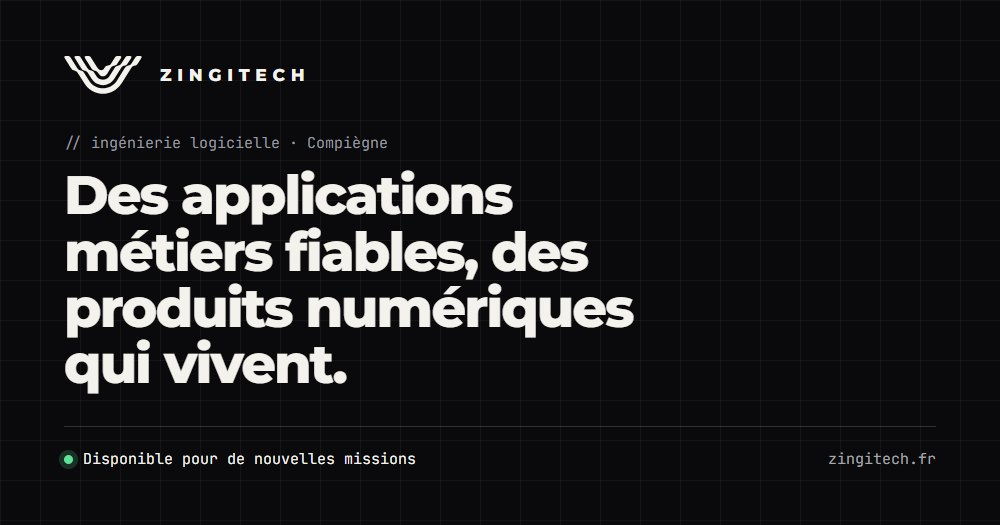
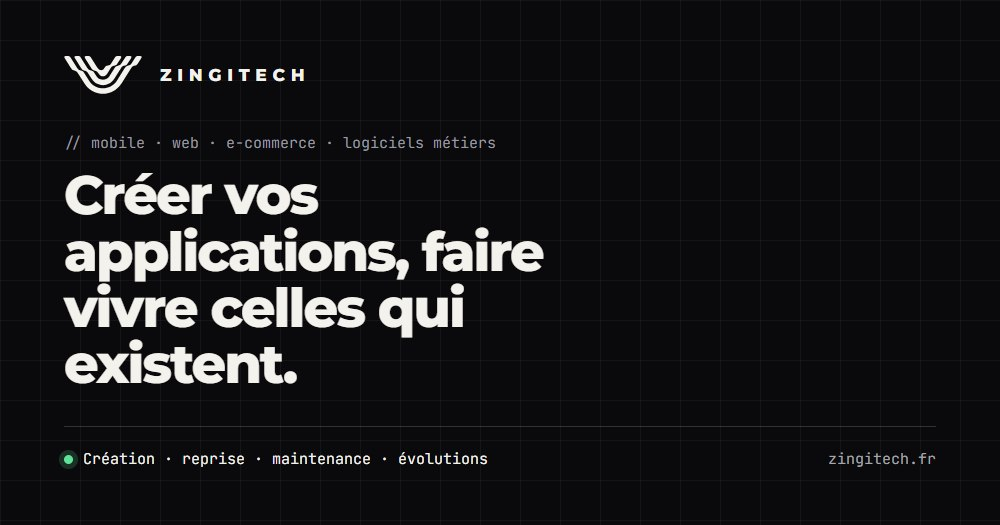
Repositionne l'accueil sur l'offre et retire le côté CV
- Accueil : nouvelle promesse « Créer vos applications, faire vivre
  celles qui existent », boutons orientés offres, raccourcis par besoin,
  programme animé sans notion de disponibilité.
- Métadonnées, description et image de partage mises à jour.
- Mentions de disponibilité reformulées (barre d'état, menu, contact,
  bandeau).
- Retrait de la carte Formation du parcours et des lignes Formation et
  Hors écran de la section À propos.
- À propos : l'introduction présente ZingiTech plutôt que son fondateur.

Changed region(s): [[0.062, 0.3048, 0.651, 0.7619], [0.093, 0.2438, 0.496, 0.3048], [0.093, 0.8533, 0.496, 0.8838]]

diff --git a/index.html b/index.html
@@ -3,12 +3,12 @@
 <head>
 <meta charset="utf-8">
 <meta name="viewport" content="width=device-width, initial-scale=1">
-<title>ZingiTech · Ingénierie logicielle, applications métiers et mobiles</title>
-<meta name="description" content="Ingénierie logicielle à Compiègne : applications métiers WinDev et HFSQL, applications mobiles React Native et IA. Disponible pour de nouvelles missions.">
+<title>ZingiTech · Création, reprise et maintenance d'applications</title>
+<meta name="description" content="ZingiTech crée, reprend, fait évoluer et maintient vos applications : mobile, web, e-commerce et logiciels métiers. Au forfait ou au temps passé, depuis Compiègne.">
 <link rel="canonical" href="https://zingitech.fr/">
 <meta property="og:type" content="website">
-<meta property="og:title" content="ZingiTech · Des applications métiers fiables, des produits numériques qui vivent.">
-<meta property="og:description" content="Ingénierie logicielle, applications métiers WinDev, applications mobiles React Native et IA. Disponible pour de nouvelles missions en régie ou en portage.">
+<meta property="og:title" content="ZingiTech · Créer vos applications, faire vivre celles qui existent.">
+<meta property="og:description" content="Application mobile, boutique en ligne, outil sur mesure ou logiciel métier : ZingiTech le crée, le reprend, le fait évoluer et le maintient.">
 <meta property="og:locale" content="fr_FR">
 <meta property="og:url" content="https://zingitech.fr/">
 <meta property="og:image" content="https://zingitech.fr/assets/og.jpg">
@@ -22,7 +22,7 @@
 <link rel="preload" href="assets/fonts/inter.woff2" as="font" type="font/woff2" crossorigin>
 <link rel="preload" href="assets/fonts/jetbrains-mono.woff2" as="font" type="font/woff2" crossorigin>
 <script type="application/ld+json">
-{"@context":"https://schema.org","@type":"ProfessionalService","name":"ZingiTech","url":"https://zingitech.fr/","image":"https://zingitech.fr/assets/og.jpg","description":"Ingénierie logicielle : applications métiers WinDev et bases de données, applications mobiles React Native et IA, sites e-commerce, data et automatisation.","email":"contact@zingitech.fr","address":{"@type":"PostalAddress","addressLocality":"Compiègne","addressRegion":"Hauts-de-France","addressCountry":"FR"},"founder":{"@type":"Person","name":"Brandon Z."},"foundingDate":"2026-03","areaServed":"FR"}
+{"@context":"https://schema.org","@type":"ProfessionalService","name":"ZingiTech","url":"https://zingitech.fr/","image":"https://zingitech.fr/assets/og.jpg","description":"Création, reprise, évolution et maintenance d'applications : mobile, web, e-commerce, logiciels métiers, data et automatisation.","email":"contact@zingitech.fr","address":{"@type":"PostalAddress","addressLocality":"Compiègne","addressRegion":"Hauts-de-France","addressCountry":"FR"},"founder":{"@type":"Person","name":"Brandon Z."},"foundingDate":"2026-03","areaServed":"FR"}
 </script>
 <style>
 @font-face{font-family:'Montserrat';font-style:normal;font-weight:600 800;font-display:swap;src:url(assets/fonts/montserrat.woff2) format('woff2')}
@@ -140,9 +140,14 @@ html.js .hero h1 .ln:nth-child(2)>span{transition-delay:.12s}
 html.js .hero.in h1 .ln>span{transform:none}
 .hero .lead{font-size:clamp(16px,1.25vw,18.5px);color:#c9c9cf;max-width:50ch;line-height:1.6;margin-top:26px}
 .cta-row{display:flex;flex-wrap:wrap;gap:12px;margin-top:32px}
-html.js .hero .lead,html.js .hero .cta-row{opacity:0;transform:translateY(16px);transition:opacity .9s var(--ease) .35s,transform .9s var(--ease) .35s}
+.hero-paths{display:flex;flex-wrap:wrap;align-items:center;gap:8px;margin-top:26px;max-width:62ch}
+.hero-paths .hp-lbl{font:500 12px var(--mono);color:var(--vert);margin-right:4px}
+.hero-paths a{font:500 12px var(--mono);color:#c9c9cf;padding:7px 12px;border:1px solid var(--ligne-n);border-radius:999px;transition:color .3s,border-color .3s,background .3s}
+.hero-paths a:hover{color:var(--blanc);border-color:rgba(255,255,255,.5);background:rgba(255,255,255,.05)}
+html.js .hero .lead,html.js .hero .cta-row,html.js .hero .hero-paths{opacity:0;transform:translateY(16px);transition:opacity .9s var(--ease) .35s,transform .9s var(--ease) .35s}
 html.js .hero .cta-row{transition-delay:.5s}
-html.js .hero.in .lead,html.js .hero.in .cta-row{opacity:1;transform:none}
+.hero .hero-paths{transition-delay:.65s}
+html.js .hero.in .lead,html.js .hero.in .cta-row,html.js .hero.in .hero-paths{opacity:1;transform:none}
 .hero-fx{position:absolute;inset:0;z-index:3;pointer-events:none;display:block}
 html:not(.js) .hero-fx,html.noanim .hero-fx{display:none}
 .hero-ed{perspective:1400px;min-width:0}
@@ -218,7 +223,7 @@ html.js .in .sw .w>span{transform:none}
 html.js .rv:not(.in){opacity:0;transform:translateY(26px)}
 html.js .rv{transition:opacity .9s var(--ease),transform .9s var(--ease)}
 html.js .rv.in{opacity:1;transform:none}
-html.noanim .rv,html.noanim .sw .w>span,html.noanim .hero h1 .ln>span,html.noanim .hero .lead,html.noanim .hero .cta-row,html.noanim .win{opacity:1!important;transform:none!important}
+html.noanim .rv,html.noanim .sw .w>span,html.noanim .hero h1 .ln>span,html.noanim .hero .lead,html.noanim .hero .cta-row,html.noanim .hero .hero-paths,html.noanim .win{opacity:1!important;transform:none!important}
 html.lock{overflow:hidden}
 .skip{position:absolute;left:-999px;top:10px;z-index:60;background:var(--blanc);color:var(--encre);padding:10px 14px;border-radius:8px;font-weight:600}
 .skip:focus{left:10px}
@@ -370,9 +375,6 @@ html.pin .rail{width:max-content;overflow:visible;scroll-snap-type:none;padding-
 .rc li{padding-left:16px;position:relative}
 .rc li::before{content:"";position:absolute;left:0;top:.8em;width:7px;height:2px;background:var(--jaune)}
 .rc .tags{margin-top:auto;padding-top:8px}
-.rc-form .ligne{display:grid;grid-template-columns:92px 1fr;gap:12px;padding:14px 0;border-top:1px solid var(--ligne-n);font-size:14.5px;line-height:1.45;color:#d5d5da}
-.rc-form .ligne b{font:500 12px var(--mono);color:var(--jaune);padding-top:2px}
-.rc-form .ligne small{display:block;color:var(--gris-2);font-size:12.5px;margin-top:3px}
 .rc-meth .m{padding:13px 0;border-top:1px solid var(--ligne-n);display:grid;grid-template-columns:34px 1fr;gap:4px 10px}
 .rc-meth .m b{font:500 12px var(--mono);color:var(--jaune);grid-row:span 2;padding-top:3px}
 .rc-meth .m h4{font-family:var(--display);font-weight:700;font-size:16px;letter-spacing:-.015em}
@@ -575,10 +577,10 @@ html.noanim .rec .cb i{opacity:1!important;transform:none!important}
   <a href="#bac"><span>05</span>Bac à sable</a>
   <a href="#apropos"><span>06</span>À propos</a>
   <a href="#contact"><span>07</span>Contact</a>
-  <div class="menu-foot">Disponible pour de nouvelles missions · contact@zingitech.fr</div>
+  <div class="menu-foot">Création · reprise · maintenance · contact@zingitech.fr</div>
 </div>
 <div class="status" id="status" aria-hidden="true">
-  <span><i class="dot"></i>Disponible · régie, portage</span>
+  <span><i class="dot"></i>Création · reprise · maintenance</span>
   <span>§ <em id="st-sec">accueil</em></span>
   <span><em id="st-pct">0</em> %</span>
   <span id="st-clock">--:--</span>
@@ -592,12 +594,19 @@ html.noanim .rec .cb i{opacity:1!important;transform:none!important}
   <div class="wrap hero-grid">
     <div class="hero-txt">
       <svg class="hero-emb" viewBox="0 0 1000 484" aria-hidden="true" focusable="false"><path class="b1" d="M4 16L8 25L22 49L80 142L96 165L103 173L112 179L122 184L142 190L152 194L161 200L169 208L179 221L265 356L281 379L300 400L325 422L352 442L376 455L396 464L427 474L454 480L470 483L505 484L528 483L545 480L571 474L592 468L603 464L623 455L646 442L665 429L690 408L710 388L724 370L737 352L854 166L869 143L877 135L886 130L896 126L917 121L927 117L936 110L943 102L949 93L982 42L993 23L995 18L996 13L995 9L994 6L991 4L987 2L976 0L953 0L941 1L931 4L922 10L912 23L861 101L854 110L846 116L836 120L814 126L804 130L795 136L788 143L775 161L676 320L659 342L642 358L630 370L611 383L592 393L572 402L551 408L535 411L524 412L501 413L478 413L461 411L440 406L424 401L409 395L385 382L367 368L359 361L343 345L322 318L257 216L248 203L240 195L230 190L225 188L204 183L194 179L185 173L177 165L171 156L86 21L79 12L75 9L67 3L56 1L22 0L11 3L8 5L5 8L4 11Z"/><path class="b2" d="M134 13L135 18L137 23L142 32L163 65L200 125L228 167L235 175L244 181L254 185L270 189L280 193L289 198L298 205L305 214L311 223L352 288L369 311L384 327L397 339L411 348L420 354L435 360L456 367L472 371L483 373L500 374L517 373L528 371L549 366L564 360L579 353L593 345L607 334L615 327L630 310L647 287L726 162L738 143L746 135L754 130L764 126L786 122L796 118L804 111L811 103L818 94L856 34L862 24L865 15L865 11L864 7L861 5L857 2L847 0L813 1L802 3L794 8L790 12L783 21L739 90L725 108L717 115L707 120L681 127L671 131L662 137L655 145L584 257L578 266L566 278L553 289L539 296L523 301L512 302L501 303L483 302L467 299L457 295L443 287L430 276L419 264L386 213L376 200L367 193L362 191L352 187L336 184L326 180L321 177L313 170L299 153L214 18L208 10L199 4L189 1L178 0L154 0L143 2L139 4L136 6L135 9Z"/><path class="b3" d="M265 16L269 25L274 35L351 156L360 169L368 176L377 182L408 191L413 194L422 199L426 203L433 211L453 238L461 246L469 252L474 255L484 259L500 261L511 260L522 257L531 251L543 241L556 223L603 149L614 136L623 130L628 128L654 122L659 120L669 115L677 108L689 90L725 34L731 25L734 15L734 11L733 8L731 5L727 3L722 1L711 0L682 1L677 1L667 5L663 8L655 16L602 99L595 108L586 115L577 119L549 124L540 128L532 135L528 139L510 167L502 174L493 180L488 181L477 182L467 181L456 177L452 175L443 168L436 160L420 137L347 21L341 12L337 9L328 3L318 1L283 0L272 2L269 5L266 8L265 11Z"/></svg>
-      <h1><span class="ln"><span>Des applications métiers fiables,</span></span><span class="ln"><span><em>des produits numériques qui vivent.</em></span></span></h1>
-      <p class="lead">ZingiTech conçoit, fait évoluer et maintient les logiciels métiers critiques des entreprises, et développe des applications mobiles et web, de l'idée jusqu'à la publication sur les stores.</p>
+      <h1><span class="ln"><span>Créer vos applications,</span></span><span class="ln"><span><em>faire vivre celles qui existent.</em></span></span></h1>
+      <p class="lead">Application mobile, boutique en ligne, outil sur mesure ou logiciel métier déjà en place : ZingiTech le crée, le reprend, le fait évoluer et le maintient. Au forfait ou au temps passé, en direct ou aux côtés de vos partenaires.</p>
       <div class="cta-row">
-        <a class="btn btn-plein" href="#contact">Discutons de votre projet</a>
-        <a class="btn btn-ghost" href="#bac">Essayer le W-Langage</a>
+        <a class="btn btn-plein" href="#contact">Parlons de votre projet</a>
+        <a class="btn btn-ghost" href="#services">Voir les offres</a>
       </div>
+      <nav class="hero-paths" aria-label="Accès direct par besoin">
+        <span class="hp-lbl">// vous voulez</span>
+        <a href="#services" data-open="mobile">lancer une application</a>
+        <a href="#services" data-open="web">vendre en ligne</a>
+        <a href="#services" data-open="regie">maintenir un logiciel existant</a>
+        <a href="#services" data-open="regie">renforcer une équipe</a>
+      </nav>
     </div>
     <div class="hero-ed" id="heroEd">
       <div class="win" id="win" aria-hidden="true">
@@ -855,7 +864,7 @@ with DAG("reporting_quotidien", schedule="0 6 * * *", catchup=False) as dag:
     <div class="wrap">
       <div class="rail-head">
         <p class="lbl">// 03 · parcours</p>
-        <div class="rail-prog" aria-hidden="true"><i id="railBar"></i><em id="railIdx">01 / 06</em></div>
+        <div class="rail-prog" aria-hidden="true"><i id="railBar"></i><em id="railIdx">01 / 05</em></div>
       </div>
     </div>
     <div class="rail" id="rail">
@@ -898,15 +907,6 @@ with DAG("reporting_quotidien", schedule="0 6 * * *", catchup=False) as dag:
           <li>Formation des clients aux outils, accompagnement fonctionnel</li>
         </ul>
         <div class="tags"><span class="tag">WinDev</span><span class="tag">Oracle</span><span class="tag">Migrations</span><span class="tag">Ticketing</span></div>
-      </article>
-      <article class="rc rc-form">
-        <div class="top"><span>Formation</span><span>2015 → 2021</span></div>
-        <h3>Trois diplômes, une spécialisation data.</h3>
-        <div>
-          <div class="ligne"><b>2021</b><div>Certification Data Engineer<small>400 h de formation · 18 certifications · 3 projets</small></div></div>
-          <div class="ligne"><b>2017–19</b><div>Licence professionnelle<small>Développement d'applications</small></div></div>
-          <div class="ligne"><b>2015–17</b><div>BTS SIO, option SLAM<small>Solutions logicielles et applications métiers</small></div></div>
-        </div>
       </article>
       <article class="rc rc-meth">
         <div class="top"><span>Façon de travailler</span><span>4 principes</span></div>
@@ -1043,7 +1043,7 @@ with DAG("reporting_quotidien", schedule="0 6 * * *", catchup=False) as dag:
     </div>
     <div class="apropos">
       <div class="rv">
-        <p class="big">ZingiTech est la structure de <em>Brandon Z.</em>, ingénieur logiciel. Elle réunit deux activités : les missions d'ingénierie pour les entreprises, et l'édition de produits numériques, Scansa en tête.</p>
+        <p class="big"><em>ZingiTech</em> réunit deux activités : les missions d'ingénierie pour les entreprises, et l'édition de produits numériques, Scansa en tête.</p>
         <div class="txt">
           <p>Immatriculée au registre du commerce de Compiègne en mars 2026, ZingiTech est née d'un constat simple : les entreprises ont besoin d'ingénieurs capables de reprendre un logiciel métier existant sans tout casser, et de livrer un produit complet quand il faut partir de zéro.</p>
           <p>Six années passées sur des applications RH, paie, administratives et juridiques ont forgé une méthode : comprendre l'existant avant de le changer, mesurer avant d'optimiser, et mettre en production sans surprise. Scansa, conçue et publiée en autonomie sur les deux stores, applique la même exigence à un produit grand public.</p>
@@ -1062,8 +1062,6 @@ with DAG("reporting_quotidien", schedule="0 6 * * *", catchup=False) as dag:
             <dt>Structure</dt><dd>Entrepreneur individuel immatriculé au RCS de Compiègne</dd>
             <dt>Depuis</dt><dd>Mars 2026</dd>
             <dt>Base</dt><dd>Compiègne, Hauts-de-France · missions sur site, hybrides ou à distance</dd>
-            <dt>Formation</dt><dd>Licence professionnelle conception et développement web et applications · BTS SIO option SLAM · certification Data, Machine Learning, Big Data et DevOps (400 h, 18 certifications)</dd>
-            <dt>Hors écran</dt><dd>Nouvelles technologies et intelligence artificielle · NBA</dd>
           </dl>
         </div>
       </div>
@@ -1082,7 +1080,7 @@ with DAG("reporting_quotidien", schedule="0 6 * * *", catchup=False) as dag:
         <p class="lead">Une mission à pourvoir, une application à créer, un logiciel à reprendre : écrivez-nous. Les tarifs et conditions sont communiqués sur demande.</p>
         <div class="mail"><a href="mailto:contact@zingitech.fr">contact@zingitech.fr</a><button class="copy" type="button" id="copyMail">Copier</button></div>
         <ul class="infos">
-          <li>Disponible pour de nouvelles missions : régie via ESN, portage, courte ou longue durée</li>
+          <li>Au forfait ou au temps passé : en direct, en régie via ESN ou en portage</li>
           <li>Sur site, hybride ou à distance</li>
           <li>Entreprise immatriculée au RCS de Compiègne</li>
         </ul>
@@ -1238,20 +1236,20 @@ POUR TOUT {sTable, indFichier}
 FIN
 HTransactionFin(cnxSQL)
 Trace(ChaîneConstruit("%1 : %2 lignes migrées", sTable, nLus))</script>
-<script type="text/x-wl" id="wl4">// ZingiTech : état du planning
-PROCEDURE Disponibilite() : chaîne
-bDisponible est un booléen = Vrai
-tabFormats est un tableau de chaînes = ["régie", "portage", "courte durée", "longue durée"]
-tabLieux est un tableau de chaînes = ["sur site", "hybride", "à distance"]
-
-SI PAS bDisponible ALORS
-    RENVOYER "Planning complet, reprise de contact à prévoir"
-FIN
-
-sMessage est une chaîne = "Disponible pour de nouvelles missions"
-sMessage += " : " + TableauVersChaîne(tabFormats, ", ")
-sMessage += " · " + TableauVersChaîne(tabLieux, ", ")
-RENVOYER sMessage</script>
+<script type="text/x-wl" id="wl4">// ZingiTech : votre projet, pris en charge
+PROCEDURE PrendreEnCharge(sBesoin est une chaîne) : chaîne
+SELON sBesoin
+    CAS "nouvelle application"
+        RENVOYER "Cadrage, maquette, développement, publication"
+    CAS "logiciel existant"
+        RENVOYER "Reprise, maintenance corrective, évolutions"
+    CAS "boutique en ligne"
+        RENVOYER "Catalogue, paiement, livraison, mise en ligne"
+    CAS "renfort d'équipe"
+        RENVOYER "Régie ou portage, aux côtés de vos partenaires"
+    AUTRE CAS
+        RENVOYER "Parlons-en : contact@zingitech.fr"
+FIN</script>
 <script src="assets/wlrun.js" defer></script>
 <script>
 (function(){
@@ -1303,7 +1301,7 @@ var MONO="'JetBrains Mono',ui-monospace,SFMono-Regular,Menlo,monospace";
 var COL={k:'#86ccff',s:'#ff6b6b',c:'#5fe29c',n:'#ffd36b',f:'#ffd36b',p:'#8b8f99',i:'#e6e6ea',v:'#e6e6ea'};
 var MOB=window.innerWidth<=980,DPR=Math.min(window.devicePixelRatio||1,2),FINE=!window.matchMedia||window.matchMedia('(hover:hover) and (pointer:fine)').matches;
 var fi=0,li=0,ci=0,timer=null,running=false,visible=true,lineEl=null,lineNo=1,lineH=22,maxLines=18,lcOff=62,padTop=12;
-var DISPO='Disponible : régie, portage, courte ou longue durée';
+var DISPO='Création · reprise · maintenance · évolutions';
 function setCap(t,ok){if(cap){cap.textContent=t;cap.classList.toggle('ok',!!ok);}}
 function measure(){var p=document.createElement('div');p.className='l';p.innerHTML='<span class="ln">1</span><span class="lc">x</span>';codeEl.appendChild(p);var pr=p.getBoundingClientRect(),lr=$('.lc',p).getBoundingClientRect();lineH=pr.height||22;lcOff=lr.left-pr.left;padTop=parseFloat(getComputedStyle(codeEl).paddingTop)||12;codeEl.removeChild(p);maxLines=Math.max(8,Math.floor((codeEl.clientHeight-padTop-2)/lineH));}
 function newLine(){var d=document.createElement('div');d.className='l';d.innerHTML='<span class="ln">'+(lineNo++)+'</span><span class="lc"></span>';codeEl.appendChild(d);while(codeEl.children.length>maxLines)codeEl.removeChild(codeEl.firstChild);return d;}
@@ -1428,7 +1426,7 @@ if(FINE&&!RM&&win){
 })();
 
 /* ---------- bandeau défilant ---------- */
-var stripSrc='SI bDisponible ALORS RENVOYER "Disponible pour de nouvelles missions" FIN  //  HLitRecherche(Dossier, Numero, sNumero)  //  POUR TOUT Piece AVEC Piece.IDDossier = Dossier.ID  //  HAjoute({sTable, indFichier})  //  Trace(ChaîneConstruit("%1 : %2 lignes migrées", sTable, nLus))  //  stDossier.Etat = Dossier.Etat  //  nAnomalies++  //  RENVOYER sMessage  //  ';
+var stripSrc='SI bProjetValidé ALORS RENVOYER "Mise en production planifiée" FIN  //  HLitRecherche(Dossier, Numero, sNumero)  //  POUR TOUT Piece AVEC Piece.IDDossier = Dossier.ID  //  HAjoute({sTable, indFichier})  //  Trace(ChaîneConstruit("%1 : %2 lignes migrées", sTable, nLus))  //  stDossier.Etat = Dossier.Etat  //  nAnomalies++  //  RENVOYER sMessage  //  ';
 $$('.strip-in').forEach(function(s){var h=html(tok(stripSrc.replace(/\/\/  /g,'   '),'wl'));s.innerHTML='<span>'+h+'</span><span>'+h+'</span>';});
 
 /* ---------- navigation, thème, progression, barre d'état ---------- */
@@ -1502,6 +1500,8 @@ function openFile(f){
   renderTabs(f);
 }
 treeBtns.forEach(function(b){b.addEventListener('click',function(){openFile(b.getAttribute('data-f'));});});
+/* raccourcis de l'accueil : ouvrent directement l'offre correspondante */
+$$('.hero-paths [data-open]').forEach(function(a){a.addEventListener('click',function(){openFile(a.getAttribute('data-open'));});});
 $$('[data-open]',ide).forEach(function(b){b.addEventListener('click',function(){openFile(b.getAttribute('data-open'));var top=ide.getBoundingClientRect().top;if(top<60)window.scrollBy({top:top-84,behavior:RM?'auto':'smooth'});});});
 ideTabs.addEventListener('click',function(e){
   var x=e.target.closest('b'),t=e.target.closest('[data-t]');if(!t)return;var f=t.getAttribute('data-t');
